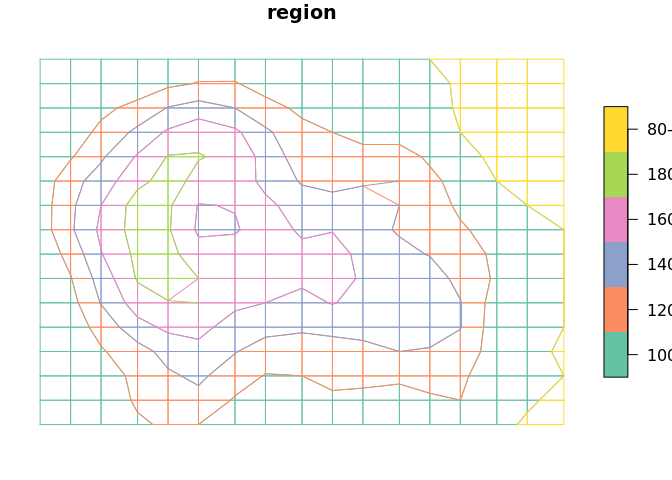
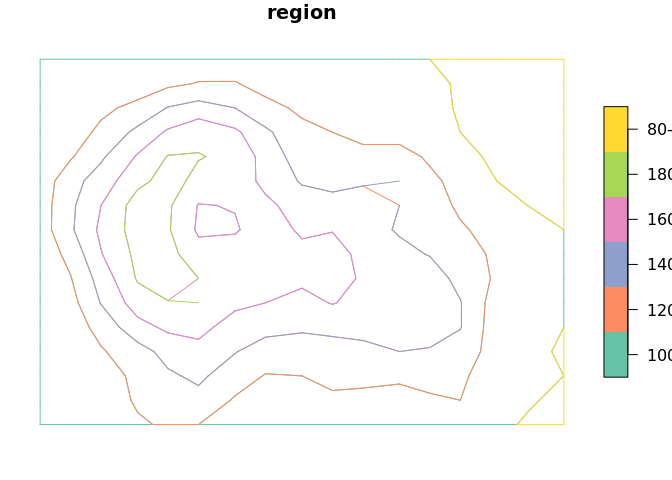
do-wa! simple fix

diff --git a/README.md b/README.md
@@ -74,7 +74,7 @@ print(ggplot(gd, aes(x, y, group = g, fill  = upper)) + geom_polygon())
 ![](README-unnamed-chunk-3-1.png)<!-- -->
 
     #>    user  system elapsed 
-    #>   0.330   0.024   0.354
+    #>   0.343   0.028   0.372
 
 Gggplot2 does plot many tiny polygons reasonably efficiently, because
 `grid::grid.polygon` is vectorized for aesthetics and for holes - but at
@@ -151,7 +151,7 @@ library(raadtools)
 #> Loading required package: sp
 #> global option 'raadfiles.data.roots' set:
 #> '/rdsi/PUBLIC/raad/data'
-#> Uploading raad file cache as at 2018-09-25 10:58:36 (461293 files listed)
+#> Uploading raad file cache as at 2018-09-25 13:24:13 (461293 files listed)
 d <- readtopo("etopo2", xylim = extent(120, 150, -45, -30))[[1]]
 x <- yFromRow(d)
 y <- xFromCol(d)
@@ -177,7 +177,7 @@ print(ggplot(gd, aes(x, y, group = g, fill  = upper)) + geom_polygon())
 ![](README-unnamed-chunk-5-1.png)<!-- -->
 
     #>    user  system elapsed 
-    #>   9.691   0.388  10.079
+    #>   9.745   0.252   9.997
     
     ## timing is okayish  
     system.time({
@@ -197,7 +197,7 @@ print(ggplot(gd, aes(x, y, group = g, fill  = upper)) + geom_polygon())
 ![](README-unnamed-chunk-5-2.png)<!-- -->
 
     #>    user  system elapsed 
-    #>   7.878   0.136   8.015
+    #>   7.909   0.080   7.989
 
 ## Other attempts
 
@@ -210,8 +210,11 @@ We need
   - group\_by region, segment and remove any segments that occur twice
   - join all remaining segments, and coerce to polygon
 
-Almost works … sorta, the unique segs per region thing is not working
-now …
+Almost works, removing repeated segments certainly works - but still we
+have to re-nest the rings which is hard.
+
+Ultimately I think straight-through with lists of sanitized fragments
+into the indexed cascaded union will be fastest.
 
 ``` r
 library(dplyr)
@@ -280,7 +283,7 @@ segs$.vertex0 <- vertex0
 segs$.vertex1 <- vertex1
 
 usegs <- segs %>% mutate(segid = paste(.vertex0, .vertex1, sep = "-")) %>% 
-  group_by(region, segid) %>% mutate(n = n()) %>% filter(n < 3) %>% ungroup()
+  group_by(region, segid) %>% mutate(n = n()) %>% filter(n < 2) %>% ungroup()
 
 tab <- usegs %>% inner_join(udata$.vx, c(".vertex0" = ".vx")) %>% rename(x0= x, y0 = y) %>% inner_join(udata$.vx, c(".vertex1" = ".vx"))
 ggplot(tab , aes(x = x0, y = y0, xend = x, yend = y, col = region)) + geom_segment() + guides(colour = FALSE)
